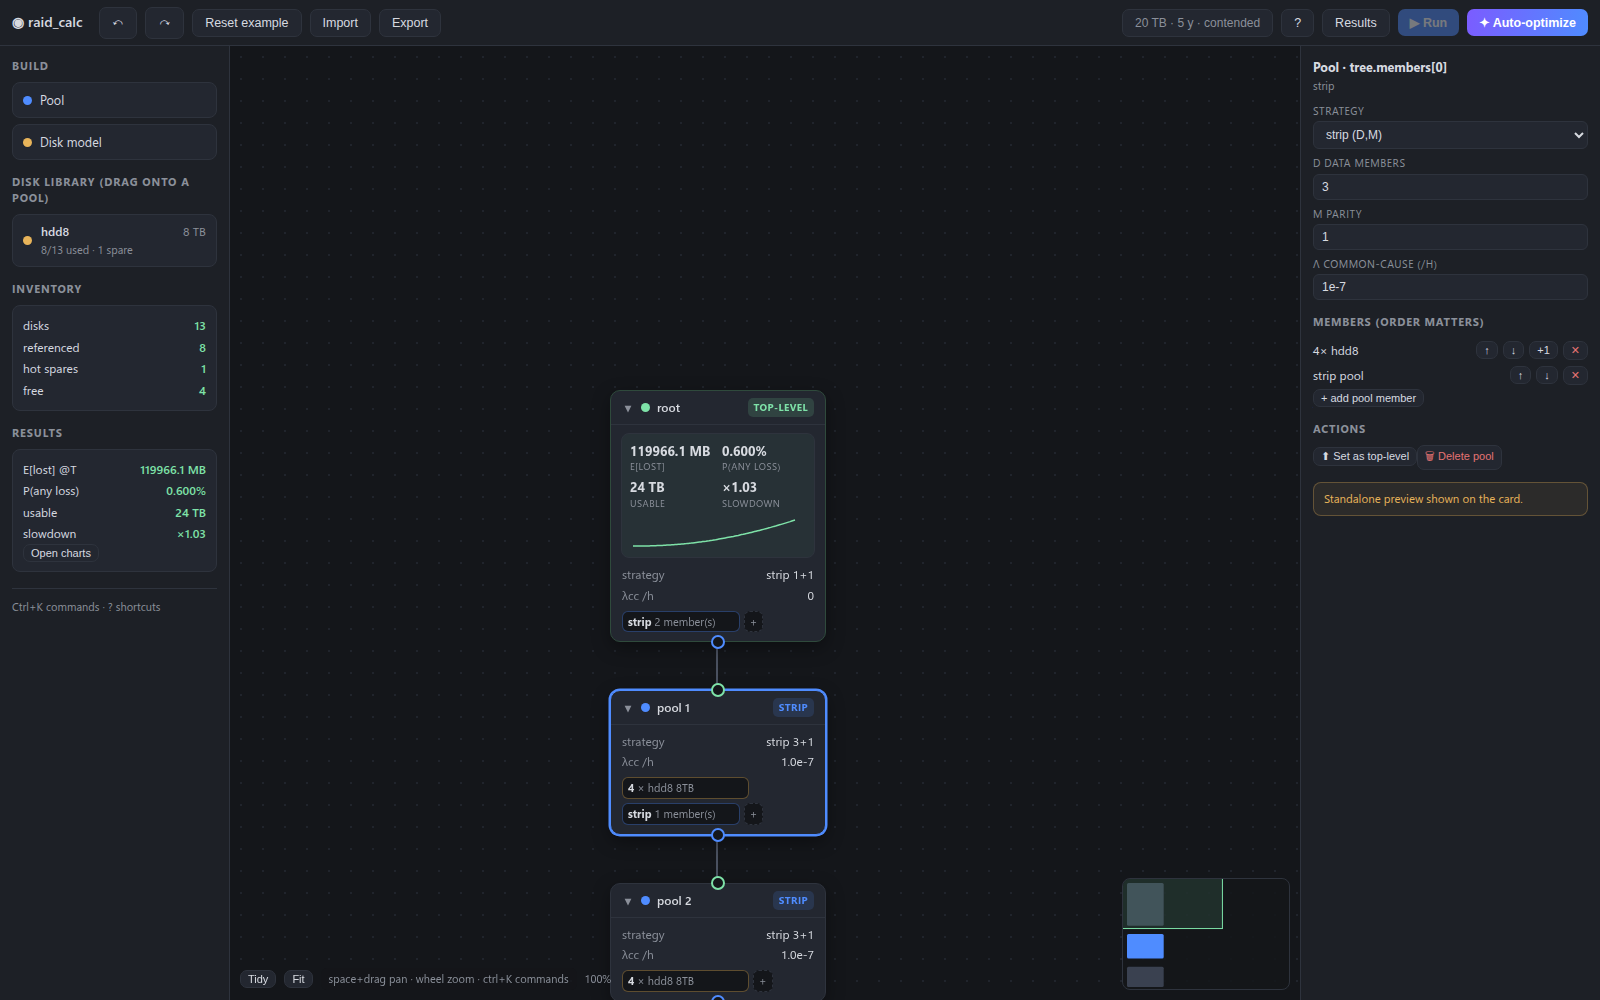
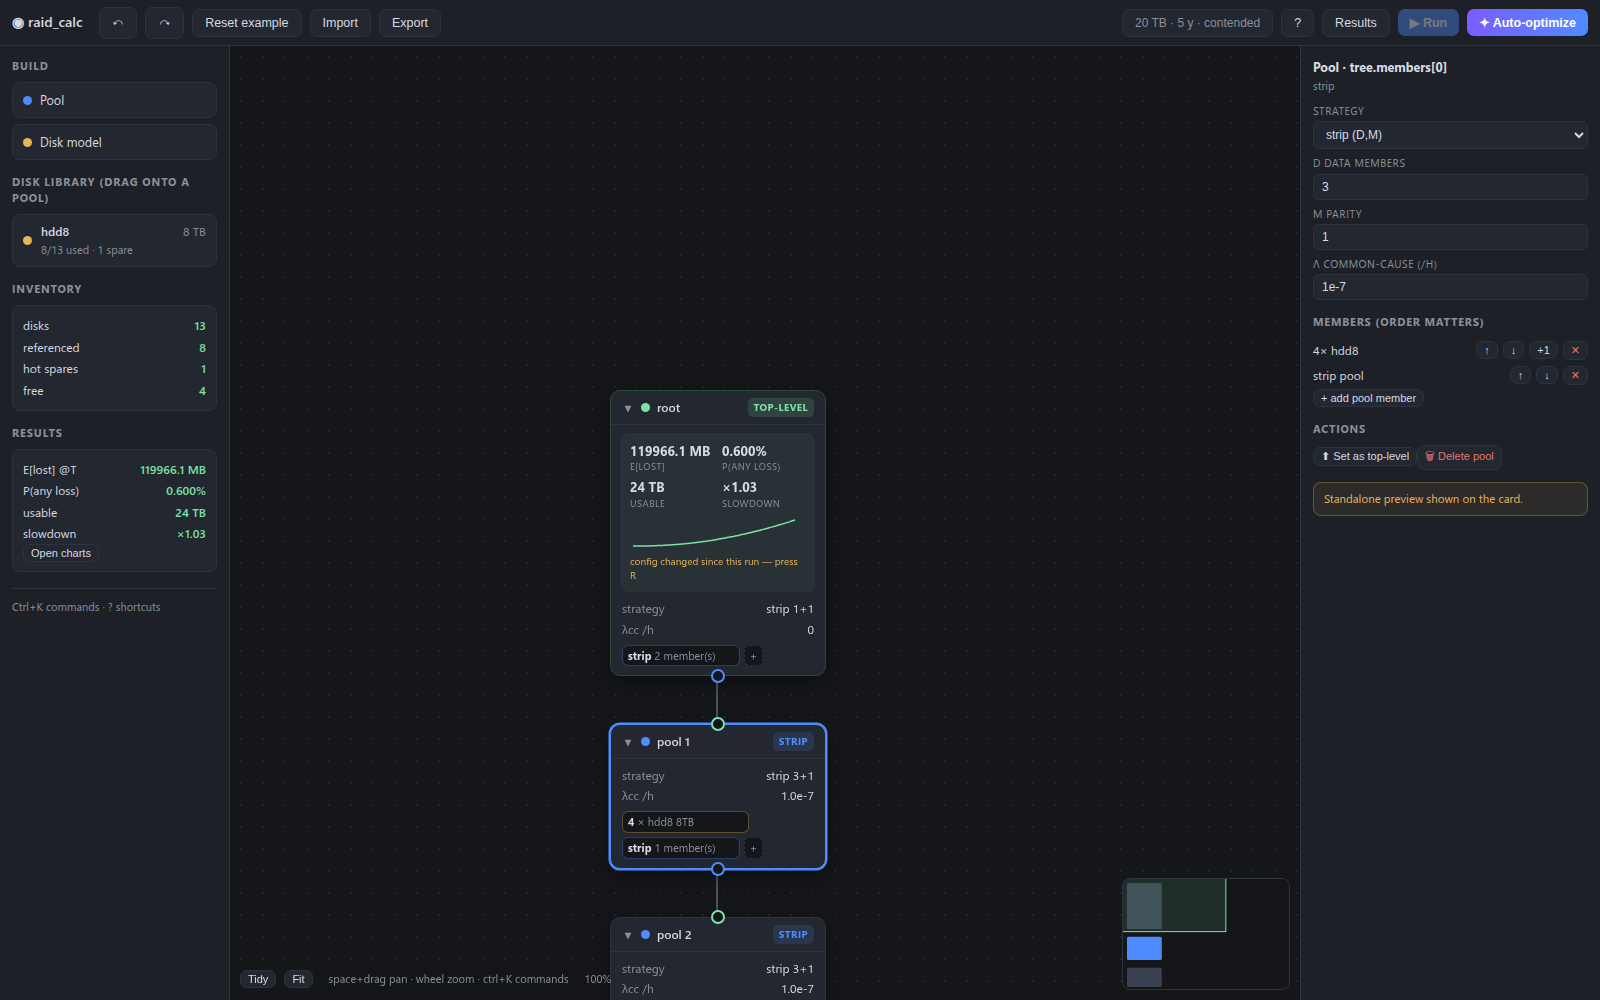
fix(14): review round 3 — ribbon stale state, dangling selection, wire deselect, undo scope (ticket 14)
Third adversarial pass; all findings fixed, each with a smoke check:

- REGRESSION from round 2: any root-pool edit deleted cardResults["tree"], blanking the result ribbon
  until the next Run. The ribbon now keeps the last run and marks it stale ("config changed since this
  run — press R"); only non-root previews are invalidated by an edit.
- an uncaught TypeError escaped when the selected card's *ancestor* was deleted: the selection stayed on
  a path that no longer resolved and the 300 ms preview timer threw inside previewConfig. commit() now
  resets a dangling selection and schedulePreview guards the path lookup.
- clicking empty canvas did not clear a selected wire (onSelect returned early when the id was
  unchanged).
- entering a field committed twice (Chrome fires keydown-Enter and change), costing two undo steps.
- the preview popover lagged its card during a drag; the minimap click deselected the current card;
  Ctrl+Z was inert while focus sat in a clean form field.

Verification: vitest 100 green; smoke 41 -> 45 checks, all passing.

diff --git a/src/ui/main.js b/src/ui/main.js
@@ -184,6 +184,15 @@ export function createApp(rootEl, { initialConfig = SAMPLE_CONFIG } = {}) {
       const withUi = { ...next, ui: { ...(next.ui || before.ui || {}), pos: after } };
       store.set(() => withUi);
       setRunError(msg);
+      // a structural edit can delete the selected node (or an ancestor of it): a dangling path
+      // would later throw inside previewConfig, outside the guarded evaluator
+      if (
+        selection &&
+        selection !== SCENARIO_ID &&
+        !resolvePath(store.get(), selection)
+      )
+        selection = "tree";
+      markResultStale();
       void label;
       return true;
     } catch (err) {
@@ -194,6 +203,15 @@ export function createApp(rootEl, { initialConfig = SAMPLE_CONFIG } = {}) {
   };
 
   const uiOf = () => store.get().ui || {};
+
+  // Any config edit invalidates the last Run. The root ribbon keeps showing it, flagged, until the
+  // user runs again — deleting it outright would blank the primary readout on every edit.
+  let runStale = false;
+  const markResultStale = () => {
+    if (!lastResult || runStale) return;
+    runStale = true;
+    cardResults.set("tree", { ...cardResult(lastResult), stale: true });
+  };
 
   const commitUi = (mutator, { recordHistory = false, render = true } = {}) => {
     const nextUi = mutator(store.get().ui || {});
@@ -224,6 +242,7 @@ export function createApp(rootEl, { initialConfig = SAMPLE_CONFIG } = {}) {
       return false;
     }
     lastResult = result;
+    runStale = false;
     setRunError(null);
     cardResults.set("tree", cardResult(result));
     renderAll();
@@ -315,10 +334,16 @@ export function createApp(rootEl, { initialConfig = SAMPLE_CONFIG } = {}) {
   const canvasActions = () => ({
         onSelect: (id) => {
           const previous = selection;
-          if (previous === id) return;
+          const wireWasSelected = !!selWire;
+          if (previous === id && !wireWasSelected) return;
           selection = id;
           selWire = null;
-          if (previous && previous !== "tree") cardResults.delete(previous);
+          if (previous && previous !== id && previous !== "tree")
+            cardResults.delete(previous);
+          if (wireWasSelected && previous === id) {
+            renderAll(); // the wire highlight only exists in the rendered DOM
+            return;
+          }
           // Selection must not rebuild the canvas: replacing the card DOM on pointerup swallows the
           // second click of a double-click, which is how a value gets edited in place.
           if (canvas.__setSelection) canvas.__setSelection(id);
@@ -401,8 +426,8 @@ export function createApp(rootEl, { initialConfig = SAMPLE_CONFIG } = {}) {
       if (ok) {
         renderCanvasOnly();
         renderSidebar(store.get());
-        // the config changed, so the standalone preview is stale
-        cardResults.delete(selection);
+        // the config changed, so the standalone preview is stale (the root ribbon is kept, flagged)
+        if (selection !== "tree") cardResults.delete(selection);
         schedulePreview();
       }
       return ok;
@@ -415,7 +440,7 @@ export function createApp(rootEl, { initialConfig = SAMPLE_CONFIG } = {}) {
         renderCanvasOnly();
         renderSidebar(store.get());
         renderProps(props, propsArgs());
-        cardResults.delete(selection);
+        if (selection !== "tree") cardResults.delete(selection);
         schedulePreview();
       }
       return ok;
@@ -851,7 +876,12 @@ export function createApp(rootEl, { initialConfig = SAMPLE_CONFIG } = {}) {
       if (!selection || selection === "tree" || selection === SCENARIO_ID) return;
       const cfg = store.get();
       const path = selection;
-      const pcfg = previewConfig(cfg, path);
+      let pcfg;
+      try {
+        pcfg = previewConfig(cfg, path);
+      } catch {
+        return; // the selection no longer resolves (deleted between the click and the timer)
+      }
       const { ok, result, error } = safeEvaluate(pcfg, {
         stateBudget: 20000,
         points: 25,
@@ -1027,7 +1057,11 @@ export function createApp(rootEl, { initialConfig = SAMPLE_CONFIG } = {}) {
       openPalette({ host: rootEl, commands: commands() });
       return;
     }
-    if (isTyping(e.target)) return;
+    // A clean form field (nothing typed since the last commit) must not swallow Ctrl+Z: the user's
+    // last committed edit is the app-level action they mean to undo.
+    const cleanInput =
+      e.target && e.target.tagName === "INPUT" && e.target.dataset.dirty !== "1";
+    if (isTyping(e.target) && !cleanInput) return;
     if ((e.ctrlKey || e.metaKey) && e.key.toLowerCase() === "z") {
       e.preventDefault();
       if (e.shiftKey) {

diff --git a/src/ui/props.js b/src/ui/props.js
@@ -132,7 +132,11 @@ export function renderProps(
       u.className = "unit";
       wrap.appendChild(u);
     }
+    let lastCommitted = input.value;
     const apply = () => {
+      // Chrome fires keydown(Enter) *and* change for the same edit; committing twice would cost two
+      // undo steps for one field
+      if (input.value === lastCommitted) return;
       let value;
       try {
         value = parse(input.value);
@@ -145,9 +149,15 @@ export function renderProps(
         return;
       }
       clearInvalid(input, errorBox);
+      lastCommitted = input.value;
+      input.dataset.dirty = "";
       const ok = onSet((cfg) => setField(cfg, info, key, value), label);
       if (!ok) markInvalid(input, errorBox, "edit rejected — check the full config");
     };
+    input.addEventListener("input", () => {
+      // a dirty field keeps native undo inside itself; a clean one lets Ctrl+Z reach the app
+      input.dataset.dirty = input.value === lastCommitted ? "" : "1";
+    });
     input.addEventListener("change", apply);
     input.addEventListener("keydown", (e) => {
       if (e.key === "Enter") apply();

diff --git a/src/ui/canvas.js b/src/ui/canvas.js
@@ -643,6 +643,11 @@ export function renderCanvas({
         }
         rib.appendChild(grid);
         if (r.series) rib.appendChild(sparkSvg(r.series, 168, 32));
+        if (r.stale) {
+          const stale = el("div", "config changed since this run — press R");
+          stale.className = "rb-stale";
+          rib.appendChild(stale);
+        }
       } else {
         rib.appendChild(el("div", "no run yet — press R"));
       }
@@ -803,6 +808,7 @@ export function renderCanvas({
   }
 
   minimap.addEventListener("pointerdown", (e) => {
+    e.stopPropagation(); // otherwise the canvas treats it as a click on empty space and deselects
     const scale = Number(minimap.dataset.scale) || 1;
     const x0 = Number(minimap.dataset.originX) || 0;
     const y0 = Number(minimap.dataset.originY) || 0;
@@ -1024,6 +1030,7 @@ export function renderCanvas({
       c.style.left = `${nx}px`;
       c.style.top = `${ny}px`;
       drawEdges();
+      placePopover();
       clearTargetStyles();
       const targetId = cardUnder(e.clientX, e.clientY);
       gesture.target = null;

diff --git a/index.html b/index.html
@@ -102,6 +102,7 @@
   .rb-v{font-size:13px; font-weight:700; color:var(--text);}
   .rb-k{font-size:9.5px; text-transform:uppercase; letter-spacing:.05em; color:var(--muted);}
   .ribbon .spark{display:block; margin-top:6px;}
+  .rb-stale{margin-top:5px; font-size:10px; color:var(--warn);}
 
   /* member chips */
   .chips{display:flex; flex-wrap:wrap; gap:4px; margin-top:5px;}

diff --git a/docs/design/ui.md b/docs/design/ui.md
@@ -71,7 +71,9 @@ hovering instead of surfacing as a failure after release.
 ## 5. Results — ribbon, drawer, previews
 
 - **Root card ribbon** (the single home for top-level results): E[lost]@T, P(any loss)@T, usable,
-  rebuild slowdown, and a sparkline of E[lost](t). Click → opens the results drawer.
+  rebuild slowdown, and a sparkline of E[lost](t). Click → opens the results drawer. Any config edit
+  marks the ribbon **stale** ("config changed since this run — press R") but keeps the last run's
+  numbers: blanking the primary readout on every keystroke would be worse than showing it flagged.
 - **Results drawer** (bottom of the canvas, toggled from the ribbon, the header, or `G`): both charts at
   reading size — E[lost](t) on a **log y-axis**, P(any loss)(t) **linear 0–1** — for mode 1 (and mode 2
   side by side), plus the full metric list. Comparison overlays for pinned configs and optimizer top-3
@@ -110,7 +112,8 @@ infeasible workload) with an explanatory tooltip; the last good curves stay visi
 
 `Ctrl+K` opens a fuzzy command palette: add disk model, add pool, tidy, fit, set as top-level, wrap in
 a new pool, run, auto-optimize, open results, scenario, export/import, undo/redo, delete selection.
-`?` opens the shortcut sheet. Keyboard: `Ctrl+Z`/`Ctrl+Shift+Z` undo/redo, `Del` delete selection,
+`?` opens the shortcut sheet. Keyboard: `Ctrl+Z`/`Ctrl+Shift+Z` undo/redo (a form field with uncommitted
+text keeps native undo; a clean field lets the app-level undo through), `Del` delete selection,
 `R` run, `T` tidy, `F` fit, `0` reset view, `G` results drawer, `Esc` cancel a drag, `Space`+drag pan.
 
 Promoting a pool whose old root had other members asks once before nesting the old root under it, so no
